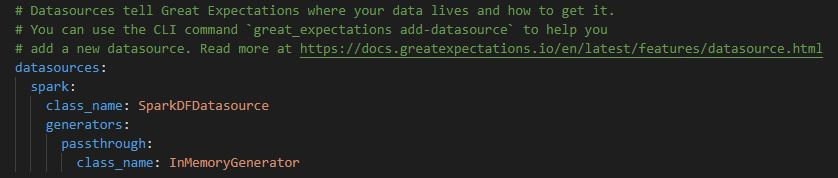
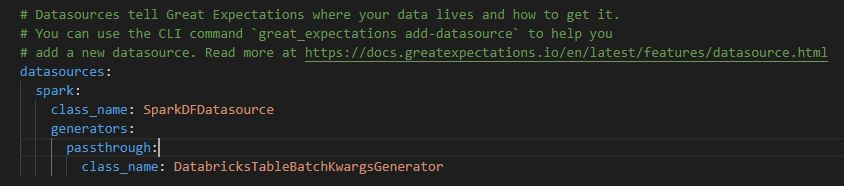
added update to DQ blog

diff --git a/public/post/setting-your-data-expectations-data-profiling-and-testing-with-the-great-expectations-library/index.html b/public/post/setting-your-data-expectations-data-profiling-and-testing-with-the-great-expectations-library/index.html
@@ -62,7 +62,7 @@
   "headline": "Setting your data expectations - Data profiling and testing with the Great Expectations library \x26 Databricks",
   "description" : "Introduction - Why Data Quality matters and the Great Expectations library\rOver the last decade or so companies have been striving to make better use of their data. The use cases for such projects have generally fallen under two categories, improve operational efficiency or drive customer sales \/ behaviour. However, in order to utilise this data it must first be piped from source systems (CRM, ordering, POS etc) into somewhere with greater redundancy.",
   "inLanguage" : "en",
-  "wordCount":  1394 ,
+  "wordCount":  1414 ,
   "datePublished" : "2020-01-20T00:00:00",
   "dateModified" : "2020-01-20T00:00:00",
   "image" : "\/img\/avatar.png",
@@ -292,8 +292,14 @@ print(df)</code></pre>
 </div>
 <div id="getting-started-with-ge-on-databricks" class="section level2">
 <h2>Getting started with GE on databricks</h2>
-<p>As eluded to in the title of this post, I’ve been utilising GE on the well known Spark platform Databricks, as we’ve been using this platform with a number of clients in order to do distributed computation of large datasets. However, whilst this post is based around Spark, GE can work with other datatypes such as CSVs (via Pandas Dataframes) and Relational Databases (via SQL Alchemy), as shown in their docs <a href="https://docs.greatexpectations.io/en/latest/getting_started/cli_init.html">here</a>.</p>
-<p>So, in order to start using GE in DataBricks you must first follow the initialisation <a href="https://docs.greatexpectations.io/en/latest/getting_started/cli_init.html">instructions</a> on your local machine, after downloading from PyPy both locally and on your Databricks cluster. However, at the add datasource stage choose option 4, which will lead to set up completing with no allocated datasource. The next step is to go into the great_expectations.yaml file in order to set up the required datasource, by adding in the lines shown below.</p>
+<p>As eluded to in the title of this post, I’ve been utilising GE on the well known Spark platform Databricks, as we’ve been using this platform with a number of clients in order to do distributed computation of large datasets. However, whilst this post is based around Spark, GE can work with other datatypes such as CSVs (via Pandas Dataframes) and Relational Databases (via SQL Alchemy), as shown in their docs <a href="https://docs.greatexpectations.io/en/latest/getting_started/typical_workflow.html">here</a>.</p>
+<p>So, in order to start using GE in DataBricks you must first follow the initialisation <a href="https://docs.greatexpectations.io/en/latest/getting_started/cli_init.html">instructions</a> on your local machine, after downloading from PyPy both locally and on your Databricks cluster. During set up choose option 1 regarding data sources and then 2 for pyspark, which will give you an error unless you have pyspark installed locally, however this doesnt matter. If you now check the directory you initiated within youll find a great_expectations folder and a great_expectations.yml file which you can open and edit. In this file add the following code, so that it matches the image shown below.</p>
+<pre class="r"><code>datasources:
+  spark:
+    class_name: SparkDFDatasource
+    generators:
+      passthrough:
+        class_name: DatabricksTableBatchKwargsGenerator</code></pre>
 <p><img src="/img/GE-setup/yaml.jpg" style="width:100.0%;height:100.0%" /></p>
 <p>Once this is saved you can copy the local files over into the DataBricks File System (DBFS), using the DataBricks CLI, as shown below and documented <a href="https://docs.databricks.com/dev-tools/cli/dbfs-cli.html">here</a>. This involves first making a directory in the DBFS and then copying over the files.</p>
 <pre class="r"><code>dbfs mkdirs your_ge_dir
@@ -305,13 +311,18 @@ dbfs cp -r .\your_local_folder dbfs:/your_ge_dir</code></pre>
 
 ls your_new_dir/</code></pre>
 <p><img src="/img/GE-setup/ge_dbfs.jpg" style="width:50.0%;height:50.0%" /></p>
-<p>Now that you have the initilisation set up and the library on your cluster you can set your GE context (which tells the profiler what kind of data to expect) and set your initial expectations, which I’ll document in two different ways, manual profiling and full profiling.</p>
+<p>Now that you have the initilisation set up and the library on your cluster you can set your GE context (which tells the profiler what kind of data to expect) and set your initial expectations, which I’ll document in two different ways, manual profiling and full profiling, the latter involving the building of the above mentioned data docs.</p>
 <div id="setting-your-expectations---setup" class="section level3">
 <h3>Setting your expectations - Setup</h3>
-<p>To do either of the above mentioned methods there is a standard set up, which is shown below. This sets up your data context and builds a list of your data assets in a specific database, and then adds a list with paths of where to store the expectations.</p>
-<pre class="r"><code>import great_expectations as ge
+<p>To do either of the above mentioned methods there is a standard set up, which is shown below. This sets up your data context and builds a list of your data assets in a specific database.</p>
+<pre class="r"><code>#Loading the package and any additional elements, such as the basic profiler
+
+import great_expectations as ge
 from great_expectations.datasource.generator.databricks_generator import DatabricksTableBatchKwargsGenerator
 from great_expectations.datasource.sparkdf_datasource import SparkDFDatasource
+from great_expectations.dataset.sparkdf_dataset import SparkDFDataset
+from great_expectations.profile.basic_dataset_profiler import BasicDatasetProfiler
+import json
 
 DATABASE = &quot;database&quot;
 
@@ -323,31 +334,26 @@ generator = DatabricksTableGenerator(name = &#39;default&#39;, datasource = Data
 
 data_asset_tuples = test.get_available_data_asset_names()[&quot;names&quot;]
 
-data_assets = [i[0] for i in data_asset_tuples]
-
-data_assets_paths = [&quot;spark/passthrough/&quot; + i for i in data_assets]</code></pre>
+data_assets = [i[0] for i in data_asset_tuples]</code></pre>
 </div>
 <div id="method-1-manual-profiling" class="section level3">
 <h3>Method 1: Manual Profiling</h3>
-<p>The first step to manual profiling is to set up the batch kwargs for the dataset in question, which allows GE to know what batch of data is being profiled, and the asset path in order to produce an empty expectations file.</p>
-<pre class="r"><code>batch_kwargs = {&quot;dataset&quot; : spark.table(f&quot;{database}.{data_assets[0]}&quot;)}
+<p>The first step to manual profiling is to load the required data, convert this to a GE recognisable spark dataframe object and then create an empty expectations file.</p>
+<pre class="r"><code>data = spark.table(database + &quot;.&quot; + data_assets_paths[0])
+
+spark_data = SparkDFDataset(data)
 
 data_asset_name = data_assets_paths[0]
 
-context.create_expectation_suite(data_asset_name, &quot;Test&quot;)
-
-batch = context.get_batch(data_asset_name, &quot;Test&quot;, batch_kwargs)</code></pre>
+context.create_expectation_suite(data_asset_name, &quot;Test&quot;)</code></pre>
 <p><img src="/img/GE-setup/empty_expectation.jpg" style="width:100.0%;height:100.0%" /></p>
-<p>Once you have your empty file you can manually add in the relevant expectations for the desired columns, and profile the batch of data via the validation operator, save out the new expectation suite (in this scenario also saving any failed expectations) and build the static html for the data quality docs.</p>
-<pre class="r"><code>batch.expect_column_values_to_not_be_null(&quot;PROJECT_ID&quot;)
-batch.expect_column_values_to_be_in_set(&quot;DELIVERY_GROUP_LATEST&quot;, set([&#39;IP Legacy&#39;, &#39;IP AM SP&amp;C&#39;]))
-batch.expect_column_distinct_values_to_be_in_set(&quot;DELIVERY_GROUP_LATEST&quot;, set([&#39;IP Legacy&#39;, &#39;IP AM SP&amp;C&#39;]))
+<p>Once you have your empty file you can manually add in the relevant expectations for the desired columns, and profile the batch of data via the validation operator and save out the new expectation suite (in this scenario also saving any failed expectations).</p>
+<pre class="r"><code>spark_data.expect_column_values_to_not_be_null(&quot;PROJECT_ID&quot;)
+spark_data.expect_column_values_to_be_in_set(&quot;DELIVERY_GROUP_LATEST&quot;, set([&#39;IP Legacy&#39;, &#39;IP AM SP&amp;C&#39;]))
 
-context.run_validation_operator(&quot;action_list_operator&quot;, [batch])
+spark_data.validate()
 
-batch.save_expectation_suite(discard_failed_expectations = False)
-
-context.build_data_docs()</code></pre>
+context.save_expectation_suite(discard_failed_expectations = False)</code></pre>
 </div>
 <div id="method-2-full-profiling" class="section level3">
 <h3>Method 2: Full Profiling</h3>
@@ -355,49 +361,49 @@ context.build_data_docs()</code></pre>
 <pre class="r"><code># First build the functions to produce the expectations for the database and also
 # to run the validations 
 
-def create_initial_expectations_suite(database, asset_name, context, asset_path):
+def build_expectations(database, asset_name, context):
+  
+  exp_suite = database + &quot;.&quot; + asset_name + &quot;.&quot; + str(datetime.today().strftime(&quot;%d-%m-%Y&quot;)) + &quot;_expectations&quot;
   
   data = spark.table(database + &quot;.&quot; + asset_name)
   
-  batch_kwargs = {&quot;dataset&quot; : data}
+  spark_data = SparkDFDataset(data)
   
-  context.create_expectation_suite(asset_path, f&quot;{asset_name}_{database}_expectations&quot;, overwrite_existing = True)
+  context.create_expectation_suite(exp_suite, overwrite_existing = True)
   
-  batch = context.get_batch(asset_path, f&quot;{asset_name}_{database}_expectations&quot;, batch_kwargs)
+  profile = spark_data.profile(BasicDatasetProfiler)
   
-  expectation_suite, validation_result = BasicDatasetProfiler.profile(batch)
+  context.save_expectation_suite(profile)
   
-  context.save_expectation_suite(expectation_suite)
+  sqlContext.uncacheTable(database + &quot;.&quot; + asset_name)
   
   
-def run_validations(database, asset_name, context, asset_path):
+def validate_expectations(database, asset_name, context):
+  
+  val_suite = database + &quot;.&quot; + asset_name + &quot;.&quot; + str(datetime.today().strftime(&quot;%d-%m-%Y&quot;)) + &quot;_validation.json&quot;
   
   data = spark.table(database + &quot;.&quot; + asset_name)
   
-  batch_kwargs = {&quot;dataset&quot; : data}
+  spark_data = SparkDFDataset(data)
   
-  batch = context.get_batch(asset_path, f&quot;{asset_name}_{database}_expectations&quot;, batch_kwargs)
+  validation = spark_data.validate()
   
-  val_run = batch.validate()
+  val_json = json.loads(str(test))  
   
-  with open(&quot;/dbfs/getest/great_expectations/expectations/spark/passthrough/dss_parameter/validation.txt&quot;, &#39;w&#39;) as f:
-    json.dump(val_run, f)
+  with open(f&quot;/dbfs/getest/expectations{val_suite}&quot;, &#39;w&#39;) as f:
+    json.dump(val_json, f)
   
-  context.run_validation_operator(&quot;action_list_operator&quot;, [batch])  
-  
-  context.build_data_docs()</code></pre>
-<pre class="r"><code># Import the profiler, create the expectations and then validate, storing the 
-# results of the validation and updating the data docs
+  sqlContext.uncacheTable(database + &quot;.&quot; + asset_name)</code></pre>
+<pre class="r"><code># Create the expectations and then validate, storing the results of the validation and updating the data docs
 
-from great_expectations.profile.basic_dataset_profiler import BasicDatasetProfiler
 
 
 for i, j in zip(data_assets, data_assets_paths):
-  create_initial_expectations_suite(DATABASE, i, context, j)
+  build_expectations(DATABASE, i, context)
 
 
 for i, j in zip():
-  run_validations(DATABASE, i, context, j)</code></pre>
+  validate_expectations(DATABASE, i, context)</code></pre>
 <p>The first function should produce an expectations file for each table, which can then be validated against to build a new data docs page. Examples of the json outputs from both functions are shown below.</p>
 <p><img src="/img/GE-setup/empty_profile.jpg" style="width:100.0%;height:100.0%" /></p>
 <p><img src="/img/GE-setup/full_profile.jpg" style="width:100.0%;height:100.0%" /></p>

diff --git a/content/post/2020-01-18-setting-your-data-expectations-data-profiling-and-testing-with-the-great-expectations-library.en.html b/content/post/2020-01-18-setting-your-data-expectations-data-profiling-and-testing-with-the-great-expectations-library.en.html
@@ -43,8 +43,14 @@ print(df)</code></pre>
 </div>
 <div id="getting-started-with-ge-on-databricks" class="section level2">
 <h2>Getting started with GE on databricks</h2>
-<p>As eluded to in the title of this post, I’ve been utilising GE on the well known Spark platform Databricks, as we’ve been using this platform with a number of clients in order to do distributed computation of large datasets. However, whilst this post is based around Spark, GE can work with other datatypes such as CSVs (via Pandas Dataframes) and Relational Databases (via SQL Alchemy), as shown in their docs <a href="https://docs.greatexpectations.io/en/latest/getting_started/cli_init.html">here</a>.</p>
-<p>So, in order to start using GE in DataBricks you must first follow the initialisation <a href="https://docs.greatexpectations.io/en/latest/getting_started/cli_init.html">instructions</a> on your local machine, after downloading from PyPy both locally and on your Databricks cluster. However, at the add datasource stage choose option 4, which will lead to set up completing with no allocated datasource. The next step is to go into the great_expectations.yaml file in order to set up the required datasource, by adding in the lines shown below.</p>
+<p>As eluded to in the title of this post, I’ve been utilising GE on the well known Spark platform Databricks, as we’ve been using this platform with a number of clients in order to do distributed computation of large datasets. However, whilst this post is based around Spark, GE can work with other datatypes such as CSVs (via Pandas Dataframes) and Relational Databases (via SQL Alchemy), as shown in their docs <a href="https://docs.greatexpectations.io/en/latest/getting_started/typical_workflow.html">here</a>.</p>
+<p>So, in order to start using GE in DataBricks you must first follow the initialisation <a href="https://docs.greatexpectations.io/en/latest/getting_started/cli_init.html">instructions</a> on your local machine, after downloading from PyPy both locally and on your Databricks cluster. During set up choose option 1 regarding data sources and then 2 for pyspark, which will give you an error unless you have pyspark installed locally, however this doesnt matter. If you now check the directory you initiated within youll find a great_expectations folder and a great_expectations.yml file which you can open and edit. In this file add the following code, so that it matches the image shown below.</p>
+<pre class="r"><code>datasources:
+  spark:
+    class_name: SparkDFDatasource
+    generators:
+      passthrough:
+        class_name: DatabricksTableBatchKwargsGenerator</code></pre>
 <p><img src="/img/GE-setup/yaml.jpg" style="width:100.0%;height:100.0%" /></p>
 <p>Once this is saved you can copy the local files over into the DataBricks File System (DBFS), using the DataBricks CLI, as shown below and documented <a href="https://docs.databricks.com/dev-tools/cli/dbfs-cli.html">here</a>. This involves first making a directory in the DBFS and then copying over the files.</p>
 <pre class="r"><code>dbfs mkdirs your_ge_dir
@@ -56,13 +62,18 @@ dbfs cp -r .\your_local_folder dbfs:/your_ge_dir</code></pre>
 
 ls your_new_dir/</code></pre>
 <p><img src="/img/GE-setup/ge_dbfs.jpg" style="width:50.0%;height:50.0%" /></p>
-<p>Now that you have the initilisation set up and the library on your cluster you can set your GE context (which tells the profiler what kind of data to expect) and set your initial expectations, which I’ll document in two different ways, manual profiling and full profiling.</p>
+<p>Now that you have the initilisation set up and the library on your cluster you can set your GE context (which tells the profiler what kind of data to expect) and set your initial expectations, which I’ll document in two different ways, manual profiling and full profiling, the latter involving the building of the above mentioned data docs.</p>
 <div id="setting-your-expectations---setup" class="section level3">
 <h3>Setting your expectations - Setup</h3>
-<p>To do either of the above mentioned methods there is a standard set up, which is shown below. This sets up your data context and builds a list of your data assets in a specific database, and then adds a list with paths of where to store the expectations.</p>
-<pre class="r"><code>import great_expectations as ge
+<p>To do either of the above mentioned methods there is a standard set up, which is shown below. This sets up your data context and builds a list of your data assets in a specific database.</p>
+<pre class="r"><code>#Loading the package and any additional elements, such as the basic profiler
+
+import great_expectations as ge
 from great_expectations.datasource.generator.databricks_generator import DatabricksTableBatchKwargsGenerator
 from great_expectations.datasource.sparkdf_datasource import SparkDFDatasource
+from great_expectations.dataset.sparkdf_dataset import SparkDFDataset
+from great_expectations.profile.basic_dataset_profiler import BasicDatasetProfiler
+import json
 
 DATABASE = &quot;database&quot;
 
@@ -74,31 +85,26 @@ generator = DatabricksTableGenerator(name = &#39;default&#39;, datasource = Data
 
 data_asset_tuples = test.get_available_data_asset_names()[&quot;names&quot;]
 
-data_assets = [i[0] for i in data_asset_tuples]
-
-data_assets_paths = [&quot;spark/passthrough/&quot; + i for i in data_assets]</code></pre>
+data_assets = [i[0] for i in data_asset_tuples]</code></pre>
 </div>
 <div id="method-1-manual-profiling" class="section level3">
 <h3>Method 1: Manual Profiling</h3>
-<p>The first step to manual profiling is to set up the batch kwargs for the dataset in question, which allows GE to know what batch of data is being profiled, and the asset path in order to produce an empty expectations file.</p>
-<pre class="r"><code>batch_kwargs = {&quot;dataset&quot; : spark.table(f&quot;{database}.{data_assets[0]}&quot;)}
+<p>The first step to manual profiling is to load the required data, convert this to a GE recognisable spark dataframe object and then create an empty expectations file.</p>
+<pre class="r"><code>data = spark.table(database + &quot;.&quot; + data_assets_paths[0])
+
+spark_data = SparkDFDataset(data)
 
 data_asset_name = data_assets_paths[0]
 
-context.create_expectation_suite(data_asset_name, &quot;Test&quot;)
-
-batch = context.get_batch(data_asset_name, &quot;Test&quot;, batch_kwargs)</code></pre>
+context.create_expectation_suite(data_asset_name, &quot;Test&quot;)</code></pre>
 <p><img src="/img/GE-setup/empty_expectation.jpg" style="width:100.0%;height:100.0%" /></p>
-<p>Once you have your empty file you can manually add in the relevant expectations for the desired columns, and profile the batch of data via the validation operator, save out the new expectation suite (in this scenario also saving any failed expectations) and build the static html for the data quality docs.</p>
-<pre class="r"><code>batch.expect_column_values_to_not_be_null(&quot;PROJECT_ID&quot;)
-batch.expect_column_values_to_be_in_set(&quot;DELIVERY_GROUP_LATEST&quot;, set([&#39;IP Legacy&#39;, &#39;IP AM SP&amp;C&#39;]))
-batch.expect_column_distinct_values_to_be_in_set(&quot;DELIVERY_GROUP_LATEST&quot;, set([&#39;IP Legacy&#39;, &#39;IP AM SP&amp;C&#39;]))
+<p>Once you have your empty file you can manually add in the relevant expectations for the desired columns, and profile the batch of data via the validation operator and save out the new expectation suite (in this scenario also saving any failed expectations).</p>
+<pre class="r"><code>spark_data.expect_column_values_to_not_be_null(&quot;PROJECT_ID&quot;)
+spark_data.expect_column_values_to_be_in_set(&quot;DELIVERY_GROUP_LATEST&quot;, set([&#39;IP Legacy&#39;, &#39;IP AM SP&amp;C&#39;]))
 
-context.run_validation_operator(&quot;action_list_operator&quot;, [batch])
+spark_data.validate()
 
-batch.save_expectation_suite(discard_failed_expectations = False)
-
-context.build_data_docs()</code></pre>
+context.save_expectation_suite(discard_failed_expectations = False)</code></pre>
 </div>
 <div id="method-2-full-profiling" class="section level3">
 <h3>Method 2: Full Profiling</h3>
@@ -106,49 +112,49 @@ context.build_data_docs()</code></pre>
 <pre class="r"><code># First build the functions to produce the expectations for the database and also
 # to run the validations 
 
-def create_initial_expectations_suite(database, asset_name, context, asset_path):
+def build_expectations(database, asset_name, context):
+  
+  exp_suite = database + &quot;.&quot; + asset_name + &quot;.&quot; + str(datetime.today().strftime(&quot;%d-%m-%Y&quot;)) + &quot;_expectations&quot;
   
   data = spark.table(database + &quot;.&quot; + asset_name)
   
-  batch_kwargs = {&quot;dataset&quot; : data}
+  spark_data = SparkDFDataset(data)
   
-  context.create_expectation_suite(asset_path, f&quot;{asset_name}_{database}_expectations&quot;, overwrite_existing = True)
+  context.create_expectation_suite(exp_suite, overwrite_existing = True)
   
-  batch = context.get_batch(asset_path, f&quot;{asset_name}_{database}_expectations&quot;, batch_kwargs)
+  profile = spark_data.profile(BasicDatasetProfiler)
   
-  expectation_suite, validation_result = BasicDatasetProfiler.profile(batch)
+  context.save_expectation_suite(profile)
   
-  context.save_expectation_suite(expectation_suite)
+  sqlContext.uncacheTable(database + &quot;.&quot; + asset_name)
   
   
-def run_validations(database, asset_name, context, asset_path):
+def validate_expectations(database, asset_name, context):
+  
+  val_suite = database + &quot;.&quot; + asset_name + &quot;.&quot; + str(datetime.today().strftime(&quot;%d-%m-%Y&quot;)) + &quot;_validation.json&quot;
   
   data = spark.table(database + &quot;.&quot; + asset_name)
   
-  batch_kwargs = {&quot;dataset&quot; : data}
+  spark_data = SparkDFDataset(data)
   
-  batch = context.get_batch(asset_path, f&quot;{asset_name}_{database}_expectations&quot;, batch_kwargs)
+  validation = spark_data.validate()
   
-  val_run = batch.validate()
+  val_json = json.loads(str(test))  
   
-  with open(&quot;/dbfs/getest/great_expectations/expectations/spark/passthrough/dss_parameter/validation.txt&quot;, &#39;w&#39;) as f:
-    json.dump(val_run, f)
+  with open(f&quot;/dbfs/getest/expectations{val_suite}&quot;, &#39;w&#39;) as f:
+    json.dump(val_json, f)
   
-  context.run_validation_operator(&quot;action_list_operator&quot;, [batch])  
-  
-  context.build_data_docs()</code></pre>
-<pre class="r"><code># Import the profiler, create the expectations and then validate, storing the 
-# results of the validation and updating the data docs
+  sqlContext.uncacheTable(database + &quot;.&quot; + asset_name)</code></pre>
+<pre class="r"><code># Create the expectations and then validate, storing the results of the validation and updating the data docs
 
-from great_expectations.profile.basic_dataset_profiler import BasicDatasetProfiler
 
 
 for i, j in zip(data_assets, data_assets_paths):
-  create_initial_expectations_suite(DATABASE, i, context, j)
+  build_expectations(DATABASE, i, context)
 
 
 for i, j in zip():
-  run_validations(DATABASE, i, context, j)</code></pre>
+  validate_expectations(DATABASE, i, context)</code></pre>
 <p>The first function should produce an expectations file for each table, which can then be validated against to build a new data docs page. Examples of the json outputs from both functions are shown below.</p>
 <p><img src="/img/GE-setup/empty_profile.jpg" style="width:100.0%;height:100.0%" /></p>
 <p><img src="/img/GE-setup/full_profile.jpg" style="width:100.0%;height:100.0%" /></p>
